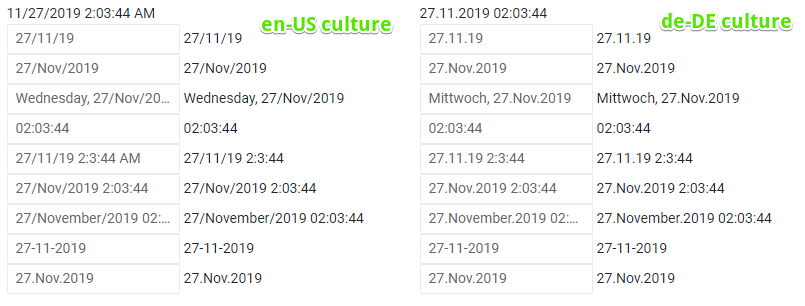
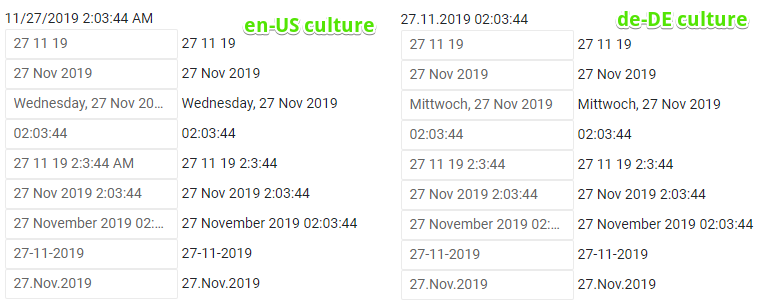
chore(globalization): improve custom formats example

diff --git a/components/dateinput/supported-formats.md b/components/dateinput/supported-formats.md
@@ -141,19 +141,19 @@ Console.WriteLine(date.ToString("hh:mm:ss tt", CultureInfo.GetCultureInfo("bg-bg
 @TheDate
 <br />
 
-<TelerikDateInput @bind-Value="TheDate" Format="dd/MM/yy" /> @TheDate.ToString("dd/MM/yy")
+<TelerikDateInput @bind-Value="TheDate" Format="dd MM yy" /> @TheDate.ToString("dd MM yy")
 <br />
-<TelerikDateInput @bind-Value="TheDate" Format="dd/MMM/yyyy" /> @TheDate.ToString("dd/MMM/yyyy")
+<TelerikDateInput @bind-Value="TheDate" Format="dd MMM yyyy" /> @TheDate.ToString("dd MMM yyyy")
 <br />
-<TelerikDateInput @bind-Value="TheDate" Format="dddd, dd/MMM/yyyy" /> @TheDate.ToString("dddd, dd/MMM/yyyy")
+<TelerikDateInput @bind-Value="TheDate" Format="dddd, dd MMM yyyy" /> @TheDate.ToString("dddd, dd MMM yyyy")
 <br />
 <TelerikDateInput @bind-Value="TheDate" Format="HH:mm:ss" /> @TheDate.ToString("HH:mm:ss")
 <br />
-<TelerikDateInput @bind-Value="TheDate" Format="d/M/yy h:m:s tt" /> @TheDate.ToString("d/M/yy h:m:s")
+<TelerikDateInput @bind-Value="TheDate" Format="d M yy h:m:s tt" /> @TheDate.ToString("d M yy h:m:s")
 <br />
-<TelerikDateInput @bind-Value="TheDate" Format="dd/MMM/yyyy H:mm:ss" /> @TheDate.ToString("dd/MMM/yyyy H:mm:ss")
+<TelerikDateInput @bind-Value="TheDate" Format="dd MMM yyyy H:mm:ss" /> @TheDate.ToString("dd MMM yyyy H:mm:ss")
 <br />
-<TelerikDateInput @bind-Value="TheDate" Format="dd/MMMM/yyyy HH:mm:ss" /> @TheDate.ToString("dd/MMMM/yyyy HH:mm:ss")
+<TelerikDateInput @bind-Value="TheDate" Format="dd MMMM yyyy HH:mm:ss" /> @TheDate.ToString("dd MMMM yyyy HH:mm:ss")
 <br />
 <TelerikDateInput @bind-Value="TheDate" Format="dd-MM-yyyy" /> @TheDate.ToString("dd-MM-yyyy")
 <br />
